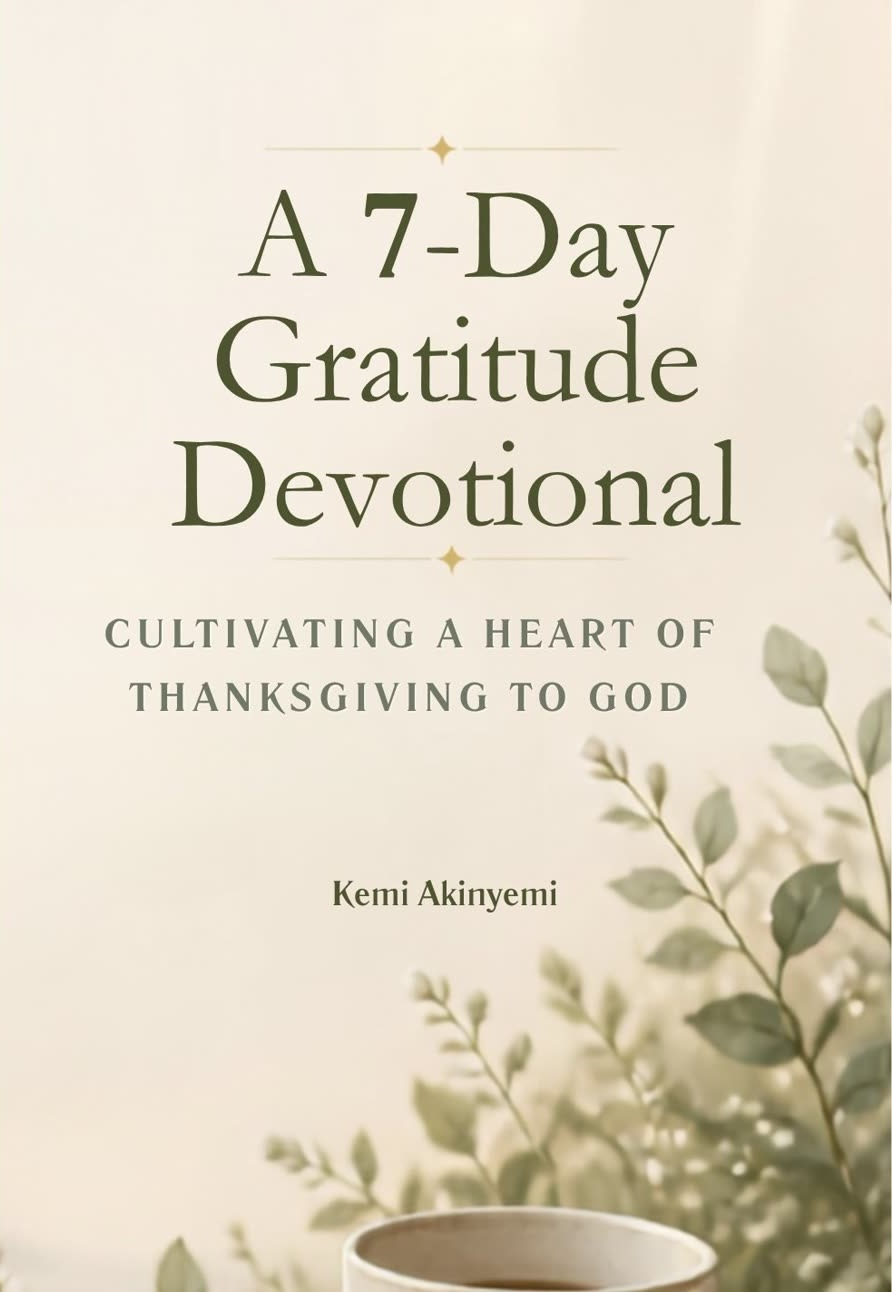
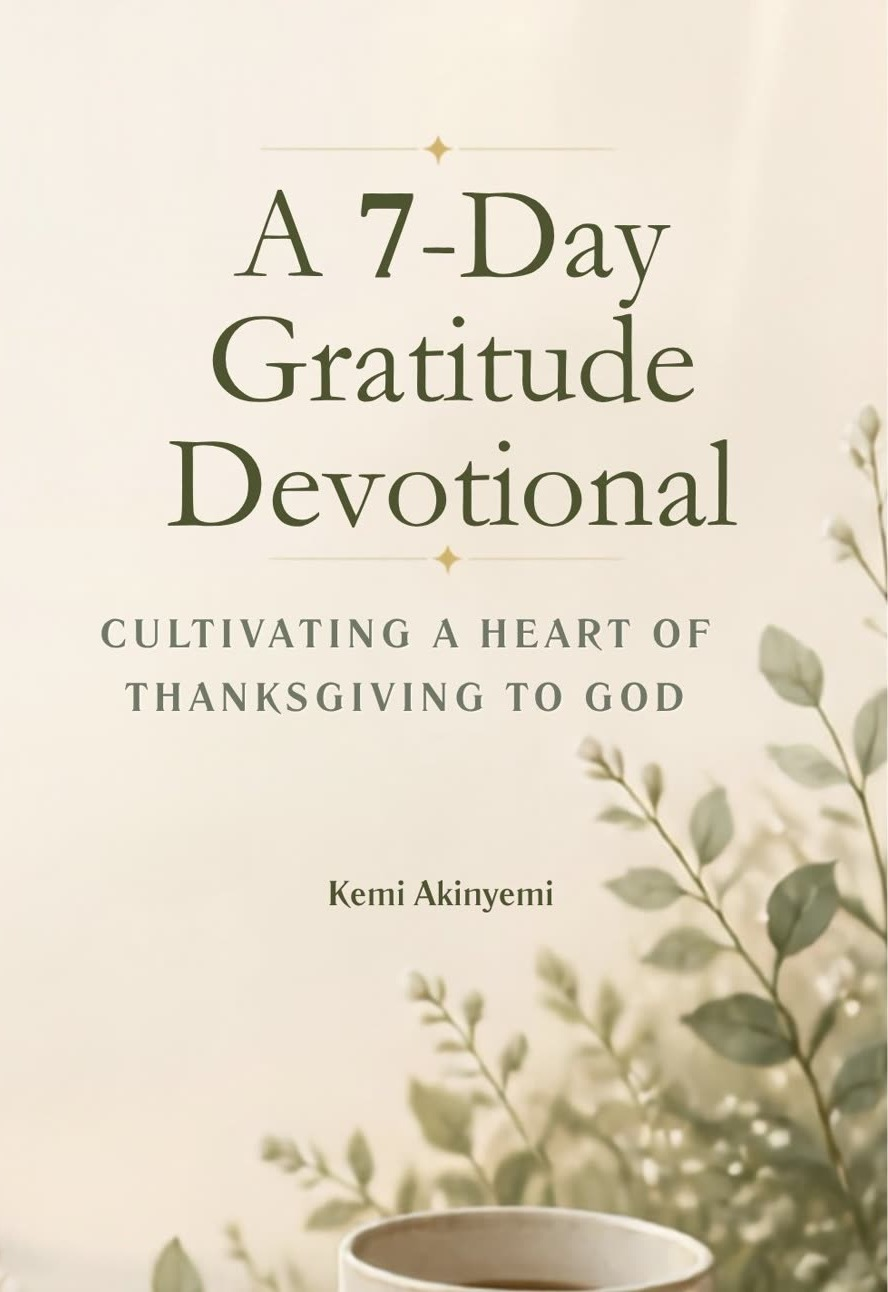
Lock the tagline to two lines and pack Connect into one chip row
Hero type was still wrapping to four lines at 61px. Size it so both
spoken lines fit, keep the photo column small, and put Visit links
on one desktop row instead of a leftover X.

diff --git a/css/style.css b/css/style.css
@@ -221,16 +221,19 @@ section { padding-block: var(--section-y); }
 }
 .hero-copy {
   display: flex; flex-direction: column; justify-content: center;
-  padding: clamp(1.35rem, 3.2vw, 2.6rem) var(--gutter);
-  max-width: 44rem;
+  padding: clamp(1.25rem, 2.8vw, 2.25rem) clamp(1.15rem, 3vw, 2.35rem);
+  max-width: none;
 }
 .hero-copy h1,
 .tagline-heading {
   margin-bottom: .4em;
   text-wrap: unset;
   max-width: none;
-  line-height: 1.12;
+  line-height: 1.14;
+  font-size: clamp(1.75rem, 1.15rem + 1.55vw, 2.55rem);
+  font-weight: 700;
 }
+.tagline-heading span { display: block; }
 .hero-photo {
   margin: 0;
   background: var(--tan);
@@ -238,12 +241,12 @@ section { padding-block: var(--section-y); }
 }
 .hero-photo img {
   width: 100%; height: 100%;
-  object-fit: cover; object-position: 48% 22%;
+  object-fit: cover; object-position: 50% 38%;
   min-height: 16rem;
 }
 @media (min-width: 56rem) {
   .hero-split {
-    grid-template-columns: minmax(28rem, 1.55fr) minmax(14rem, .58fr);
+    grid-template-columns: minmax(28rem, 1.7fr) minmax(13rem, .5fr);
     min-height: 0;
   }
   .hero-photo { align-self: stretch; }
@@ -252,6 +255,7 @@ section { padding-block: var(--section-y); }
 .hero-home + section { padding-top: clamp(2rem, 4.5vw, 3.5rem); }
 .page-hero { padding-block: clamp(2.15rem, 4.8vw, 3.6rem); background: var(--grey); }
 .page-hero .wrap { max-width: 46rem; }
+.page-hero h1 { font-size: clamp(1.85rem, 1.2rem + 1.45vw, 2.55rem); }
 
 .pull-quote {
   font-family: var(--display); font-style: italic; font-weight: 400;
@@ -373,18 +377,28 @@ figcaption { font-size: .85rem; color: var(--ink-soft); margin-top: .65rem; }
 }
 .social-list.social-visit {
   display: grid;
-  grid-template-columns: repeat(auto-fill, minmax(11.25rem, 1fr));
+  grid-template-columns: repeat(2, minmax(0, 1fr));
   gap: .7rem;
   margin-top: 1.25rem;
+}
+@media (min-width: 40rem) {
+  .social-list.social-visit {
+    grid-template-columns: repeat(3, minmax(0, 1fr));
+  }
+}
+@media (min-width: 56rem) {
+  .connect-find .social-list.social-visit {
+    grid-template-columns: repeat(5, minmax(0, 1fr));
+  }
+  .family-panel .social-list.social-visit {
+    grid-template-columns: repeat(4, minmax(0, 1fr));
+  }
 }
 .social-visit .social-link {
   width: 100%;
   justify-content: flex-start;
   background: var(--white);
   border-width: 1.5px;
-}
-.family-panel .social-visit {
-  grid-template-columns: repeat(auto-fill, minmax(11.25rem, 1fr));
 }
 
 /* ---------- forms ---------- */

diff --git a/index.html b/index.html
@@ -50,7 +50,7 @@
   <div class="hero-split">
     <div class="hero-copy">
       <p class="eyebrow">Zoe Life</p>
-      <h1 class="tagline-heading">Helping people thrive<br>in every season of life.</h1>
+      <h1 class="tagline-heading"><span>Helping people thrive</span> <span>in every season of life.</span></h1>
       <p class="lede">Zoe Life equips individuals, couples, families, churches, and organizations with biblical truth, practical wisdom, and Christ-centered resources to help them thrive in every season of life.</p>
       <div class="btn-row">
         <a class="btn btn-primary" href="contact.html#message">Send a message</a>
@@ -60,7 +60,7 @@
     <figure class="hero-photo">
       <img src="assets/photos/tayo-kemi-hero.jpg"
            alt="Pastor Tai and Pastor Kemi Akinyemi standing together outdoors, smiling."
-           width="1360" height="1060">
+           width="1240" height="960">
     </figure>
   </div>
 </section>
@@ -104,7 +104,7 @@
       <div class="book-cover">
         <img src="assets/books/gratitude-devotional-cover.jpg"
              alt="Cover of A 7-Day Gratitude Devotional by Kemi Akinyemi, cream cover with green serif title and botanical accents."
-             width="892" height="1292" loading="lazy">
+             width="888" height="1292" loading="lazy">
       </div>
       <div>
         <h3 class="book-title">A 7-Day Gratitude Devotional</h3>

diff --git a/books.html b/books.html
@@ -60,7 +60,7 @@
       <div class="book-cover">
         <img src="assets/books/gratitude-devotional-cover.jpg"
              alt="Cover of A 7-Day Gratitude Devotional by Kemi Akinyemi, cream cover with green serif title and botanical accents."
-             width="892" height="1292">
+             width="888" height="1292">
       </div>
       <div>
         <p class="eyebrow">Devotional</p>

diff --git a/consult.html b/consult.html
@@ -76,7 +76,7 @@
       <figure class="portrait portrait-couple">
         <img src="assets/photos/tayo-kemi-hero.jpg"
              alt="Pastor Tai and Pastor Kemi Akinyemi standing together outdoors, smiling."
-             width="1360" height="1060">
+             width="1240" height="960">
       </figure>
     </div>
   </div>
